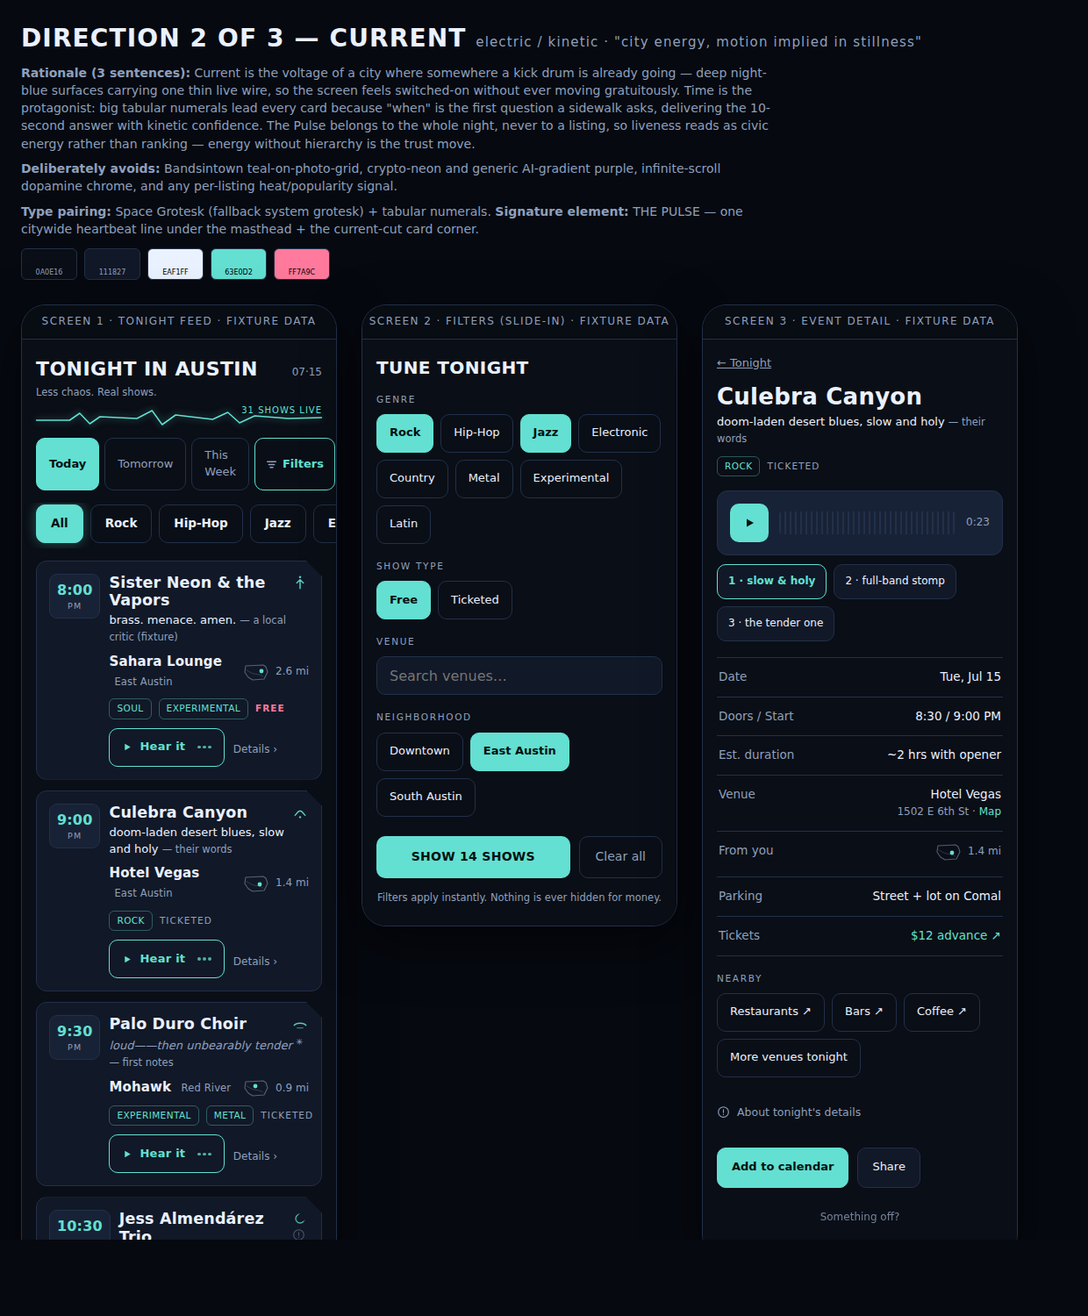
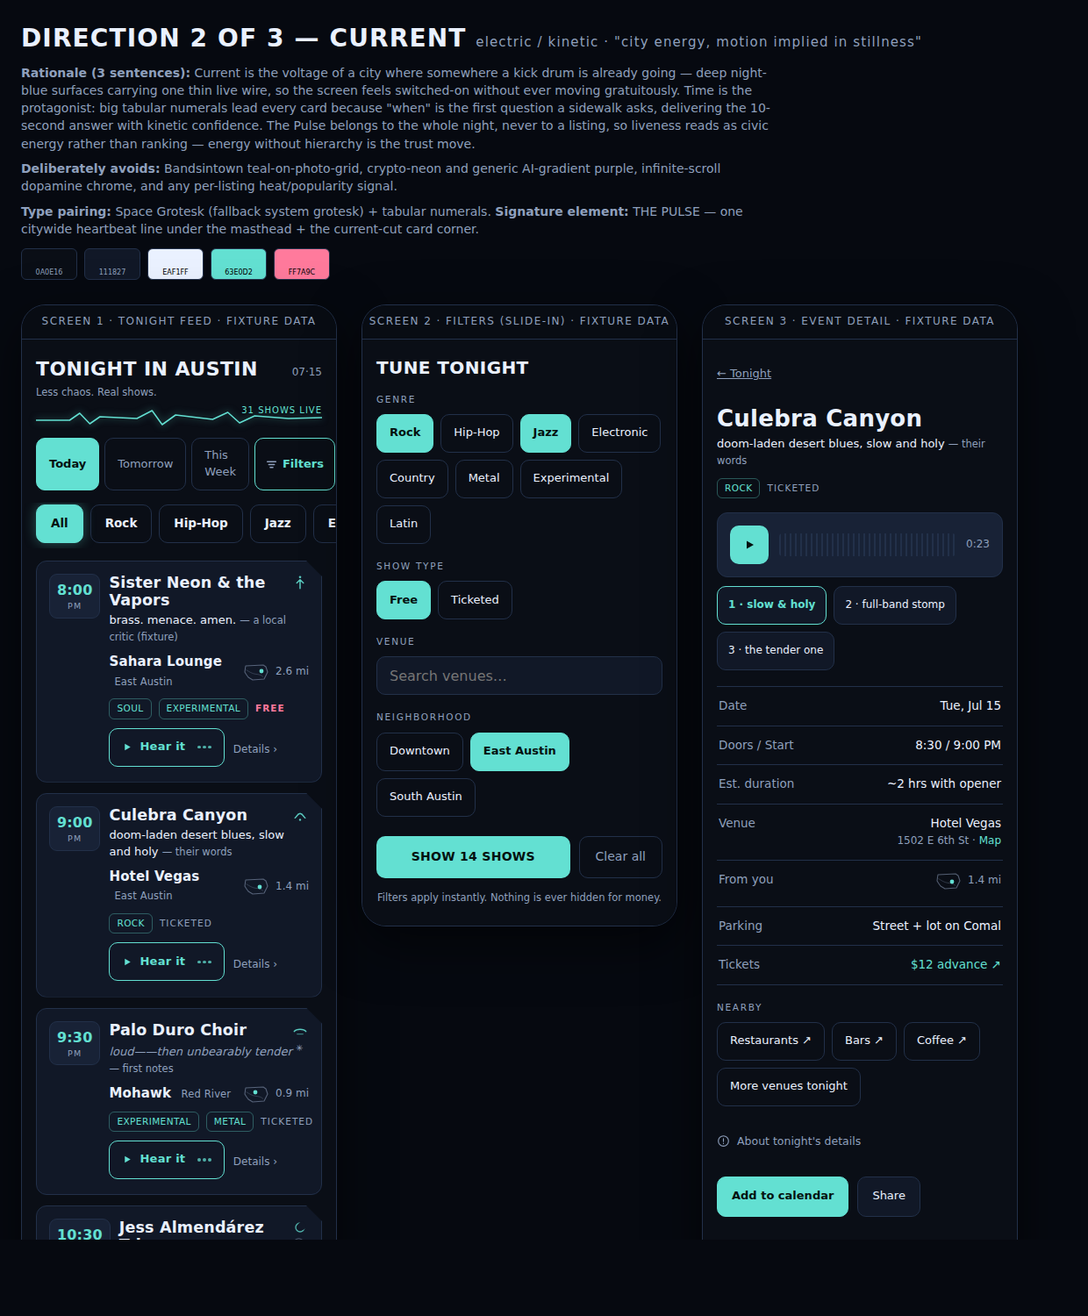
Genre taxonomy + member preferences proposals; round-10 touch-target fixes
Two founder-directed proposals: three-layer genre architecture (canonical
18 aligned to the Apple/Spotify/Bandsintown common core with lossless
migration from today's 8; curated style tags mapping upward; per-market
rail; synonym lexicon with unmatched-search growth loop) and the member
layer (P1 on-device defaults, P2 account favorites incl. an extensible
any-entertainment-place place_type vocabulary, P3 playlist OAuth as a
founder-crucial service; lens-never-gate trust screens). Round-10 fixes:
44px sizing on back/sample/open-hint and a static touch-target test
across every interactive class (suite: 49). TODOS carries both
ratification asks.

Claude-Session: https://claude.ai/code/session_01C8oqGP1FbNcm7L1cEgoEc8

diff --git a/design/proposals/direction-3-setlist.html b/design/proposals/direction-3-setlist.html
@@ -69,9 +69,9 @@
   .pips i{width:3.5px;height:3.5px;border-radius:99px;background:currentColor;opacity:.75;display:block}
   a.fopt{text-decoration:none}
   input.search{appearance:none;-webkit-appearance:none;font:inherit}
-  a.open-hint{text-decoration:none}
+  a.open-hint{text-decoration:none;display:inline-flex;align-items:center;min-height:44px}
   .samples{display:flex;gap:8px;margin-top:10px;flex-wrap:wrap}
-  .sample{min-height:40px;padding:0 12px;border:1px solid var(--line);background:transparent;color:var(--ink);font-size:11.5px;letter-spacing:.04em;display:flex;align-items:center}
+  .sample{min-height:44px;padding:0 12px;border:1px solid var(--line);background:transparent;color:var(--ink);font-size:11.5px;letter-spacing:.04em;display:flex;align-items:center}
   .sample.on{border-color:var(--stamp);color:var(--stamp);font-weight:800}
   .edition .no .num{color:var(--stamp);font-weight:800}
 
@@ -120,7 +120,7 @@
   .apply{flex:1;min-height:48px;background:var(--ink);color:var(--bg);font-weight:900;font-size:13px;letter-spacing:.1em;text-transform:uppercase;display:flex;align-items:center;justify-content:center}
   .clear{min-height:48px;padding:0 18px;border:1px solid var(--line);color:var(--muted);font-size:13px;display:flex;align-items:center}
 
-  .back{color:var(--muted);font-size:11.5px;letter-spacing:.12em;text-transform:uppercase;margin-bottom:14px;display:block}
+  .back{color:var(--muted);font-size:11.5px;letter-spacing:.12em;text-transform:uppercase;margin-bottom:14px;display:block;display:inline-flex;align-items:center;min-height:44px}
   .d-artist{font-size:34px;font-weight:900;line-height:.95;text-transform:uppercase;font-stretch:condensed}
   .player{margin-top:16px;background:var(--surface);border:1px solid var(--line);padding:14px;display:flex;align-items:center;gap:12px}
   .play-btn{width:44px;height:44px;background:var(--ink);display:flex;align-items:center;justify-content:center;flex:none}

diff --git a/design/proposals/direction-2-current.html b/design/proposals/direction-2-current.html
@@ -75,9 +75,9 @@
   .pips i{width:3.5px;height:3.5px;border-radius:99px;background:currentColor;opacity:.75;display:block}
   a.fopt{text-decoration:none}
   input.search{appearance:none;-webkit-appearance:none;font:inherit}
-  a.open-hint{text-decoration:none}
+  a.open-hint{text-decoration:none;display:inline-flex;align-items:center;min-height:44px}
   .samples{display:flex;gap:8px;margin-top:10px;flex-wrap:wrap}
-  .sample{min-height:40px;padding:0 12px;border-radius:10px;border:1px solid var(--line);background:var(--surface);color:var(--ink);font-size:12px;display:flex;align-items:center}
+  .sample{min-height:44px;padding:0 12px;border-radius:10px;border:1px solid var(--line);background:var(--surface);color:var(--ink);font-size:12px;display:flex;align-items:center}
   .sample.on{border-color:var(--live);color:var(--live);font-weight:700}
   .pulse svg{filter:drop-shadow(0 0 4px rgba(99,224,210,.55))}
   .time-block .t{color:var(--live)}
@@ -130,7 +130,7 @@
   .apply{flex:1;min-height:48px;border-radius:10px;background:var(--live);color:var(--on-accent);font-weight:800;font-size:14px;display:flex;align-items:center;justify-content:center;letter-spacing:.02em}
   .clear{min-height:48px;padding:0 18px;border-radius:10px;border:1px solid var(--line);color:var(--muted);font-size:14px;display:flex;align-items:center}
 
-  .back{color:var(--muted);font-size:13px;margin-bottom:14px;display:block}
+  .back{color:var(--muted);font-size:13px;margin-bottom:14px;display:block;display:inline-flex;align-items:center;min-height:44px}
   .d-artist{font-size:26px;font-weight:800;line-height:1.1;letter-spacing:.01em}
   .player{margin-top:16px;background:var(--raised);border:1px solid var(--line);border-radius:12px;padding:14px;display:flex;align-items:center;gap:12px}
   .play-btn{width:44px;height:44px;border-radius:10px;background:var(--live);display:flex;align-items:center;justify-content:center;flex:none}

diff --git a/design/proposals/direction-1-marquee.html b/design/proposals/direction-1-marquee.html
@@ -73,9 +73,9 @@
   .pips i{width:3.5px;height:3.5px;border-radius:99px;background:currentColor;opacity:.75;display:block}
   a.fopt{text-decoration:none}
   input.search{appearance:none;-webkit-appearance:none;font:inherit}
-  a.open-hint{text-decoration:none}
+  a.open-hint{text-decoration:none;display:inline-flex;align-items:center;min-height:44px}
   .samples{display:flex;gap:8px;margin-top:10px;flex-wrap:wrap}
-  .sample{min-height:40px;padding:0 12px;border-radius:999px;border:1px solid var(--line);background:var(--surface);color:var(--ink);font-size:12px;display:flex;align-items:center}
+  .sample{min-height:44px;padding:0 12px;border-radius:999px;border:1px solid var(--line);background:var(--surface);color:var(--ink);font-size:12px;display:flex;align-items:center}
   .sample.on{border-color:var(--tung);color:var(--tung);font-weight:600}
 
 
@@ -129,7 +129,7 @@
   .clear{min-height:48px;padding:0 18px;border-radius:12px;border:1px solid var(--line);color:var(--muted);font-size:14px;display:flex;align-items:center}
 
   /* ---------- detail ---------- */
-  .back{color:var(--muted);font-size:13px;margin-bottom:14px;display:block}
+  .back{color:var(--muted);font-size:13px;margin-bottom:14px;display:block;display:inline-flex;align-items:center;min-height:44px}
   .d-artist{font-family:Georgia,serif;font-size:28px;font-weight:600;line-height:1.1}
   .d-spark{font-size:14px;margin:8px 0 2px}
   .player{margin-top:16px;background:var(--raised);border:1px solid var(--line);border-radius:14px;padding:14px;display:flex;align-items:center;gap:12px}

diff --git a/tests/test_design_proposals.py b/tests/test_design_proposals.py
@@ -280,6 +280,36 @@ def test_nearby_chips_are_working_deep_links(direction):
     )
 
 
+def test_touch_targets_meet_44px_claim(direction):
+    """Round 10: the comps claim ≥44px touch targets; the suite must be
+    able to fail on a undersized control. Static check: every interactive
+    class's CSS rule must declare min-height (or fixed size) ≥44px."""
+    name, html = direction
+    css = re.search(r"<style\b.*?</style>", html, flags=re.S).group(0)
+    interactive = ["tab", "grail", "fopt", "apply", "clear", "d-btn",
+                   "hear", "sample", "back", "filter-entry", "search"]
+    for cls in interactive:
+        rules = re.findall(rf"[.\w]*\.{cls}\{{([^}}]*)\}}", css)
+        assert rules, f"{name}: no CSS rule found for interactive class .{cls}"
+        sized = any(
+            re.search(r"min-height:\s*(4[4-9]|[5-9]\d)px", r) or
+            re.search(r"height:\s*(4[4-9]|[5-9]\d)px", r)
+            for r in rules
+        )
+        assert sized, f"{name}: .{cls} has no ≥44px target sizing — claim violated"
+    # play button + quiet-icon summary are sized via explicit width/height
+    assert re.search(r"\.play-btn\{[^}]*width:44px;height:44px", css), (
+        f"{name}: play button not 44px"
+    )
+    assert re.search(r"details\.quiet>summary\{[^}]*width:44px;height:44px", css), (
+        f"{name}: uncertainty icon summary not 44px"
+    )
+    # open-hint links get a 44px hit area
+    assert re.search(r"a\.open-hint\{[^}]*min-height:44px", css), (
+        f"{name}: Details › link lacks 44px hit area"
+    )
+
+
 def test_fixture_labeling_visible_in_frames(direction):
     """Round 6 nit: real venues + fictional artists must be labeled as
     fixture content inside the frames, not only in README prose."""

diff --git a/docs/strategy/ONE_LIVE_GENRE_TAXONOMY_v1.md b/docs/strategy/ONE_LIVE_GENRE_TAXONOMY_v1.md
@@ -1,0 +1,91 @@
+# Genre taxonomy v1 — standards-based core, fine-grained on top (PROPOSAL for founder ratification; supersedes the flat 8 when ratified)
+
+Greppable summary: founder-directed (2026-07-15: "start with what's common
+or standard and architect it so we can improve on it… more fine grained and
+targeted"). Three-layer architecture: LAYER 1 = 18 canonical top genres
+aligned to the industry-common set (Apple Music's hierarchical genre codes,
+Spotify's browse layer, Bandsintown's live-event tags — sources below);
+LAYER 2 = open, curated subgenre/style tags that always map up to Layer 1
+(the fine-grained targeting: two-step, doom-blues, corridos, house…);
+LAYER 0 = the UI rail (8–12 chips per market, chosen from Layer 1 by local
+inventory — Austin's rail ≠ Nashville's rail). Search synonyms map spoken/
+typed vocabulary onto all layers. Unmatched search terms feed taxonomy
+growth (the voice-persona H5 loop). Everything is CONFIG, not code.
+STATUS: PROPOSAL — resolves the G-VT taxonomy gap with the R&B/Soul absence
+(exposed by voice persona #7) as its first proof case.
+
+## Layer 1 — the canonical 18 (the "common standard" core)
+
+Chosen as the working intersection of the three references for LIVE music
+(dropping recorded-music-only categories like Soundtrack/Children's):
+
+Rock · Pop · Hip-Hop/Rap · **R&B/Soul** · Electronic/Dance · Country ·
+Latin · Jazz · **Blues** · **Folk/Americana** · Metal · **Punk** ·
+**Reggae** · **Classical** · **World** · **Singer-Songwriter** ·
+**Indie/Alternative** · Experimental
+
+(Bold = new vs. today's 8. Today's 8 map losslessly into this set; no
+migration pain — `Hip-Hop`→`Hip-Hop/Rap`, `Electronic`→`Electronic/Dance`,
+rest identical.)
+
+Why 18 and not 8 or 6,000: 8 was too coarse the first time a real spoken
+search arrived ("R&B" had no home); 6,000 (Spotify's microgenre layer) is
+an analysis layer, not a choice layer — no fan picks from 6,000 chips.
+Eighteen is the tier every major platform's top level converges on, and it
+is the layer artists/venues already use to describe themselves, which
+matters because OUR genre data comes from extraction of their words.
+
+## Layer 2 — fine-grained styles (where "more targeted" lives)
+
+Open, curated tag vocabulary; every tag maps to ≥1 Layer-1 parent; a show
+carries any number. Examples: two-step & western swing (→Country),
+honky-tonk (→Country), doom/desert blues (→Blues, Rock), corridos &
+norteño (→Latin), salsa/cumbia nights (→Latin, Electronic/Dance),
+house/techno/DnB (→Electronic/Dance), bluegrass (→Folk/Americana),
+neo-soul (→R&B/Soul), hardcore (→Punk, Metal), mariachi (→Latin, World).
+Tags enter the vocabulary by evidence (artist self-description, venue
+copy, unmatched searches) through normal review — never auto-created by
+extraction on its own (the gate applies to taxonomy writes like any
+candidate data).
+
+## Layer 0 — the UI rail (what the thumb sees)
+
+The genre rail and filter grid show 8–12 Layer-1 chips per market, picked
+by actual local inventory share (Austin certainly surfaces Country and
+Latin; a Berlin launch would surface Electronic/Dance's subgenres
+differently). "All" always exists; every Layer-1 genre remains reachable
+via search/voice even when not a chip. Rail composition is market config.
+
+## Search & voice mapping
+
+The synonym lexicon (voice-personas harvest item 1) targets ALL layers:
+"R&B" → Layer-1 R&B/Soul (exact, once ratified — no more "closest to");
+"dance music" → Electronic/Dance + dance-night tags; "Americana" →
+Folk/Americana; "two-step" → the Layer-2 tag AND lesson-type events.
+Every unmatched term is logged (count + verbatim) and reviewed weekly —
+the taxonomy improves from what people actually say, which is the
+founder's "improve on it re: searches people do" made mechanical.
+
+## Data & pipeline impact
+
+- `event.genres` becomes Layer-1 array + Layer-2 tag array (extraction
+  captures the artist/venue's OWN words; mapping to canon is deterministic
+  config the eval harness can regression-test).
+- Golden set (Step 6) gains genre-mapping assertions.
+- Trust screen: genre data is descriptive, from the act's/venue's own
+  materials — never inferred sentiment, never a ranking dimension; the
+  no-hierarchy rules are untouched.
+
+## Sources
+
+Apple Music genre codes (hierarchical, partner docs): https://itunespartner.apple.com/music/support/5318-updated-genre-codes ·
+https://developer.apple.com/documentation/applemusicapi/music-genres —
+Spotify's two-tier reality (browse layer over ~6,000 microgenres):
+https://www.spudart.org/blog/six-thousand-spotify-genres/ —
+Bandsintown live-event genre tagging + Spotify live-events integration:
+https://www.artist.bandsintown.com/integrations/spotify
+
+## Ratification ask (G-VT partial resolution)
+
+One founder decision: ratify the Layer-1 eighteen (or edit the list), and
+Layer 2 + Layer 0 + the lexicon proceed as config under normal gates.

diff --git a/docs/strategy/ONE_LIVE_MEMBER_PREFERENCES_v1.md b/docs/strategy/ONE_LIVE_MEMBER_PREFERENCES_v1.md
@@ -1,0 +1,75 @@
+# Member preferences & connections v1 — save your taste, favorite anything, connect your music (PROPOSAL)
+
+Greppable summary: founder-directed (2026-07-15: "a formal build option for
+people to save their preferences or connect their playlists or 'favorite'
+artists or venues or bars or restaurants or museums or schools or
+auditoriums or theaters or comedy clubs or… any entertainment venue").
+Three phases by cost/consent weight: P1 anonymous on-device preferences
+(no account, pre-launch-safe) · P2 account favorites for artists + ANY
+place (extensible venue-type taxonomy) · P3 playlist/library connections
+(Spotify/Apple Music OAuth — new services, FOUNDER-CRUCIAL at build).
+Personalization is a LENS, never a GATE: the honest full feed is always
+one tap away, nothing is hidden, recommendations carry provenance and are
+never for sale. STATUS: PROPOSAL for ratification; P1 has no blockers.
+
+## The venue-type taxonomy (the founder's "or… any entertainment venue")
+
+`place_type` becomes an extensible config vocabulary, favoritable from day
+one even where OneLive doesn't yet LIST that type's events: music venue ·
+bar · restaurant (incl. supper clubs — Broken Spoke is all three) · dance
+hall · theater · auditorium/PAC · museum · gallery · school/university
+venue · comedy club · outdoor/park stage · church/community hall · …
+(config rows, never code). Honesty note: favoriting a comedy club works
+the moment P2 ships; comedy LISTINGS remain out of content scope until the
+founder expands it (voice persona #20's demand log is the evidence stream
+for when).
+
+## Phases
+
+### P1 — "My defaults" (on-device, no account, buildable at Step 9)
+Saved genres, neighborhoods, price preference, radius, day habits — stored
+on the device (localStorage), applied as the default lens on open ("your
+scene: jazz + east side" chip visible + one tap to full feed). Zero
+credentials, zero PII server-side, works behind the stealth gate. This is
+the brief's "identity, gently" (§6.D7) with zero privacy surface.
+
+### P2 — Favorites (account layer via existing Clerk)
+Heart any artist or any PLACE (full place_type vocabulary). Favorites
+power: "your artists playing this week," venue-first views, and later
+notifications (a separate consent + timing decision). Server-side personal
+data begins here → §13 privacy engineering applies from the first row
+(data map entry, DSAR/delete = purge, favorites never sold or shared,
+never used to rank the public feed).
+
+### P3 — Connections (Spotify / Apple Music)
+OAuth into the fan's library: followed/top artists matched against
+upcoming lineups — "12 artists you listen to are playing Austin this
+month" is the strongest retention surface this product can own, and both
+platforms expose exactly the needed read scopes (Spotify Web API
+top/followed artists; Apple MusicKit library). COSTS: developer-program
+registration, OAuth apps, secret custody, review processes = new services
++ credentials = FOUNDER-CRUCIAL when built. Privacy: read-only minimal
+scopes, matching happens server-side against our lineup data, library
+contents are never stored wholesale, disconnect = purge derived data.
+
+## Trust screens (the rules that make this OneLive and not an ad platform)
+
+1. **Lens, never gate:** personalization re-orders and highlights; it
+   never removes. The full chronological feed stays one visible tap away;
+   disputed/uncertain display rules are identical under every lens.
+2. **Provenance on every recommendation:** "because you favorited Sahara
+   Lounge" / "because Culebra Canyon is in your library" — no black-box
+   'for you'; the reflection test (§6) applies to every personalized row.
+3. **Never for sale, never leaked:** preference and connection data plays
+   no role in what ANYONE ELSE sees, is never sold, and never feeds a
+   pay-to-reach surface. Discovery integrity outranks growth mechanics.
+4. **Tastemaker separation unchanged:** favorites are structured
+   preference data; they never touch the event candidate/gating pipeline.
+
+## Disposition
+
+P1 → Step 9 build scope (small, no decisions needed beyond this doc's
+ratification). P2 → post-launch, first account-layer PR (privacy map in
+the same PR). P3 → founder-crucial service decision when P2 usage earns
+it. Genre preferences reference the taxonomy proposal (ratify that first
+or together).

diff --git a/STATE.md b/STATE.md
@@ -42,6 +42,13 @@ NEXT (top of queue, contract-first, evaluator mandatory): **Step 6 golden-set ga
 
 FOUNDER DECISIONS CLOSED 2026-07-15: PRs #4/#7 closed ("Close both" — R-009 resolved); 4-state confidence model CONFIRMED as final canon ("confirmed"). The same-day fifth-state question is RESOLVED: founder ratified the Certainty Display Stack ("Display stack accepted", 2026-07-15) — NO fifth state; state (frozen at 4) × freshness × provenance compose as attributes; event_status its own field (docs/strategy/ONE_LIVE_CERTAINTY_DISPLAY_v1.md, canon; Axes 2/3 + event_status build at Step 7). **No founder decision blocks the CRITICAL PATH (Steps 6–10).** The non-blocking founder-decision backlog remains OPEN in TODOS.md (monitoring-stack timing P1; trust-framework naming, payments, native-mobile timing P2; revenue reconciliation, sync licensing P3) — agents must not silently pick any of these.
 
+## Session Contract #11 (2026-07-15, same conversation — founder: standards-based genres + member preferences/connections)
+
+GOAL: Architect the founder's two directives as ratifiable proposals: (a) genre taxonomy starting from the industry-common standard and built to get finer-grained from real searches; (b) a formal member layer — saved preferences, favorites for artists and ANY entertainment place type, playlist connections.
+SCOPE: docs/strategy/ONE_LIVE_GENRE_TAXONOMY_v1.md (Layer 1 = canonical 18 aligned to Apple Music/Spotify/Bandsintown, cited; Layer 2 = curated style tags mapping upward; Layer 0 = per-market UI rail; synonym lexicon + unmatched-search growth loop; all config) · docs/strategy/ONE_LIVE_MEMBER_PREFERENCES_v1.md (P1 on-device defaults, Step-9-safe · P2 Clerk favorites + extensible place_type vocabulary incl. bars/restaurants/museums/schools/auditoriums/theaters/comedy clubs · P3 Spotify/Apple OAuth = new services, FOUNDER-CRUCIAL; trust screens: lens-never-gate, provenance on every recommendation, never sold, tastemaker separation untouched) · TODOS founder-decision rows · evaluator round-10 fixes in the same push (44px sizing on .back/.sample/.open-hint + a touch-target test that can fail).
+NON-GOALS: no taxonomy flip before ratification (the 8 stay live); no account features built; no OAuth apps registered; comedy LISTINGS remain out of content scope (the place TYPE becomes favoritable — content expansion is a separate founder call).
+DONE-CRITERIA: both proposals committed with sources · TODOS asks consolidated · suite green incl. new target-size assertions · validate + push.
+
 ## Session Contract #10 (2026-07-15, same conversation — founder: voice search personas, 1→5 filters)
 
 GOAL: Turn the founder's voice-search brief ("find me R&B or good dance music with no or low cover charge" + "10-20 search personas, filters standalone then 2,3,4,5") into the voice parser's golden test set and a requirements harvest.

diff --git a/docs/ONE_LIVE_CHANGE_LOG.md b/docs/ONE_LIVE_CHANGE_LOG.md
@@ -380,3 +380,7 @@
 
 ## 2026-07-15 — Voice personas v1.1: the Evening Planner class (multi-intent, sequenced, cross-domain)
 - Three more founder utterances added as personas #21–23 — a qualitatively different class: "plan my evening" (dinner-and-a-show with after-7 + nearby-dining; happy-hour specials joined to live music in a neighborhood we don't list yet; learn-two-step-then-music-then-eat). Harvest items 10–15: multi-intent splitting; itinerary sequencing grammar (the brief's shareable night-plan card is its output); cross-domain honesty + demand logging (deals/menus are not our data — the future path is venue-self-reported specials via claimed accounts under the sensor architecture, a FOUNDER surface decision); `event_type` (lesson/dance-night) into the Step 6 schema + G-VT evidence (Broken Spoke two-step lessons are pipeline events); dining-density as an un-ranked venue FACT (OSM counts at Tier 2); neighborhood vocabulary as config.
+
+## 2026-07-15 — Genre taxonomy + member preferences proposals; evaluator round 10 (touch targets)
+- Founder-directed, both PROPOSALS pending ratification: (1) ONE_LIVE_GENRE_TAXONOMY_v1 — three layers: canonical 18 top genres aligned to the Apple Music/Spotify/Bandsintown common core (R&B/Soul, Blues, Folk/Americana, Punk, Reggae, Classical, World, Singer-Songwriter, Indie/Alternative join; today's 8 map losslessly), curated fine-grained style tags mapping upward (two-step, corridos, house…), per-market UI rail as config, synonym lexicon + unmatched-search growth loop ("improve on it re: searches people do", made mechanical). (2) ONE_LIVE_MEMBER_PREFERENCES_v1 — P1 on-device saved defaults (Step-9-safe, zero PII) · P2 account favorites for artists and ANY entertainment place type (extensible place_type config: bars, restaurants, dance halls, theaters, auditoriums, museums, schools, comedy clubs…) · P3 Spotify/Apple playlist connections (OAuth = new services = founder-crucial). Trust screens explicit: personalization is a lens never a gate, provenance on every recommendation, preference data never sold and never shapes anyone else's feed, tastemaker separation untouched.
+- Evaluator round 10 (correct): "← Tonight" back links lacked 44px targets in all three comps while docs claimed ≥44px, and the suite couldn't fail on it. Fixed (.back, .sample 40→44, a.open-hint hit area) + test_touch_targets_meet_44px_claim (static CSS check across all interactive classes). Nit noted: changelog round-narratives are historical self-reporting — kept per Loops discipline, structure review deferred to session close.

diff --git a/TODOS.md b/TODOS.md
@@ -42,6 +42,8 @@ Check items off in the same commit that completes them; don't batch-remove.
 ## Founder decisions needed (cannot be resolved by an agent — do not silently pick one)
 - [x] (P1) Confirm 4-state confidence model finalized — **CONFIRMED by founder 2026-07-15 ("confirmed")**. This closes the 4-state decision ONLY.
 - [x] (P2) **Certainty Display Stack proposal (fifth-state question)** — **RATIFIED by founder 2026-07-15 ("Display stack accepted")**: NO fifth state; state (frozen at 4) × freshness × provenance compose; event_status its own field (docs/strategy/ONE_LIVE_CERTAINTY_DISPLAY_v1.md, now canon). Axes 2/3 + event_status build at Step 7.
+- [ ] (P1) **Ratify the genre taxonomy Layer-1 eighteen** — docs/strategy/ONE_LIVE_GENRE_TAXONOMY_v1.md (standards-aligned core incl. R&B/Soul; today's 8 map losslessly; Layers 0/2 + synonym lexicon proceed as config once the 18 are set) — owner: founder — resolves the G-VT genre gap the voice personas exposed.
+- [ ] (P1) **Ratify member preferences/connections phasing** — docs/strategy/ONE_LIVE_MEMBER_PREFERENCES_v1.md (P1 on-device defaults at Step 9 · P2 account favorites incl. any-place venue types · P3 Spotify/Apple playlist OAuth = founder-crucial services; personalization is a lens never a gate) — owner: founder.
 - [ ] (P2) Trust framework naming: drop "ESIM" 3-pillar branding, or relabel as OneLive's own framing — owner: founder.
 - [ ] (P1) Monitoring stack: Vercel Analytics + Supabase logs to start, Sentry before public launch — owner: founder — confirm timing.
 - [ ] (P2) Payments: Stripe Connect only, or keep Trolley for international creator payouts — owner: founder.
